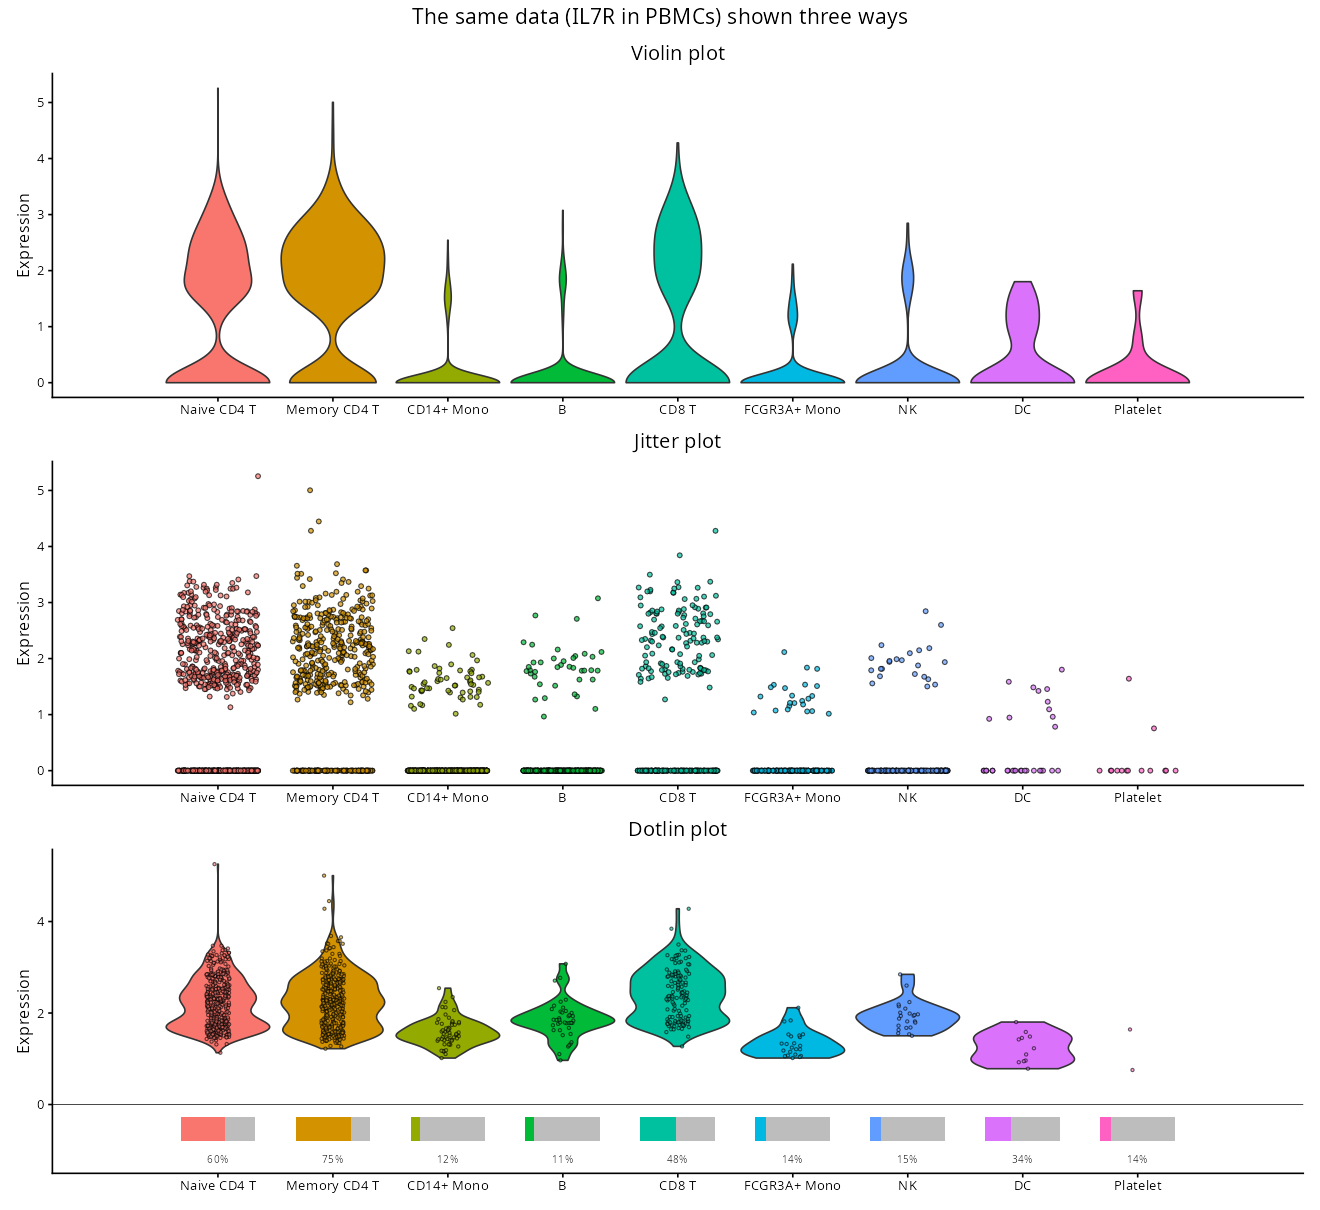
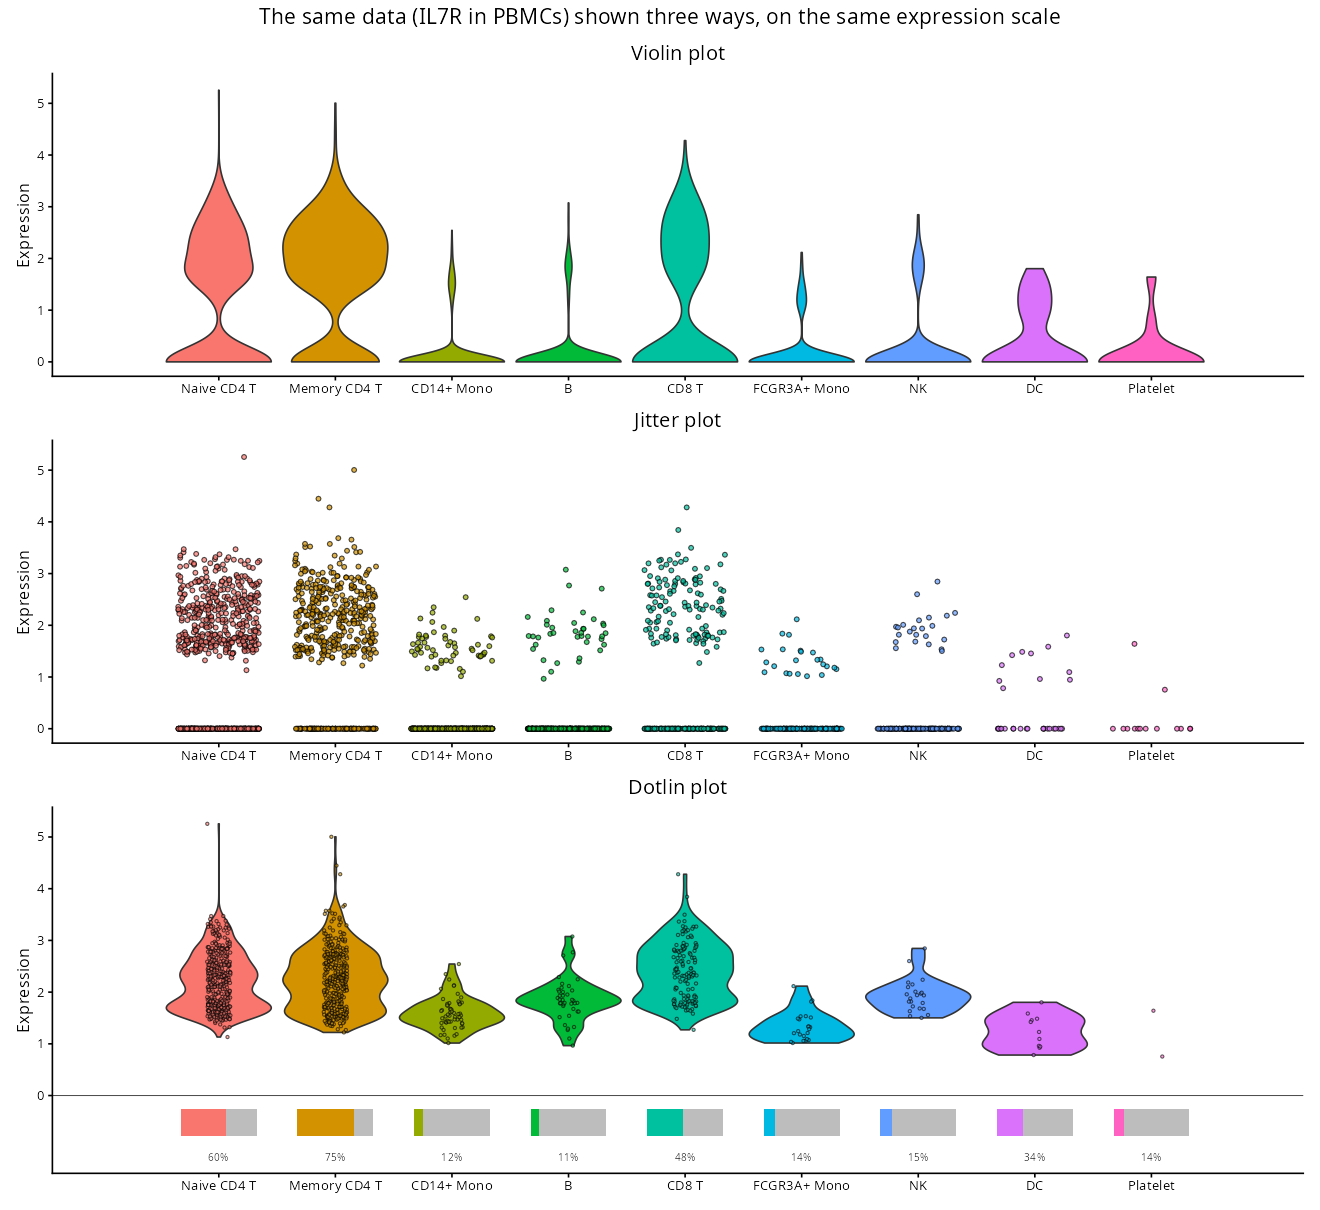
Fix y-axis, labels and legend so the plot matches the data
- All gene panels share one y-axis, and the bars are sized from the
  highest value of all genes, so ticks, scale and bars are the same in
  every panel.
- Y-axis ticks are computed over the expression values only, so the bars
  below zero no longer make them coarser than on an ordinary plot.
- Labels read <1% or >99% where rounding would hide a few cells.
- The legend follows the category order.
- README: describe the bar correctly; the comparison figure uses the same
  expression scale in every panel.

diff --git a/README.md b/README.md
@@ -13,7 +13,7 @@ In single-cell data, most genes are detected in only some of the cells, so most 
 
 A dotlin plot separates the two questions hidden in the data:
 
-1.  **What share of the cells in each group express the gene?** A bar below zero: the grey bar stands for all cells in the group, and the coloured part for the expressing ones, with the percentage underneath. (This is the information a dot plot encodes as dot size.)
+1.  **What share of the cells in each group express the gene?** A bar below zero that stands for all cells in the group (100%): its coloured part is the share that expresses the gene, its grey part the share that does not, with the percentage underneath. (This is the information a dot plot encodes as dot size.)
 2.  **How strongly is the gene expressed in those cells?** A violin with points above zero, drawn from the non-zero values only.
 
 ![](images/comparison.png)
@@ -86,9 +86,10 @@ ggsave("dotlin_plot.png", width = 8, height = 4)
 
 | Element                   | Shows |
 |---------------------------|-------|
-| Grey bar                  | All cells in the category (100%). |
+| Whole bar                 | All cells in the category (100%). |
 | Coloured part of the bar  | The share of cells with non-zero expression. |
-| Percentage                | That share as a number. |
+| Grey part of the bar      | The share of cells with zero expression. |
+| Percentage                | The coloured share as a number; `<1%` or `>99%` when rounding would hide a few cells. |
 | Violin                    | The distribution of the non-zero values. |
 | Points                    | The individual cells with non-zero expression. |
 
